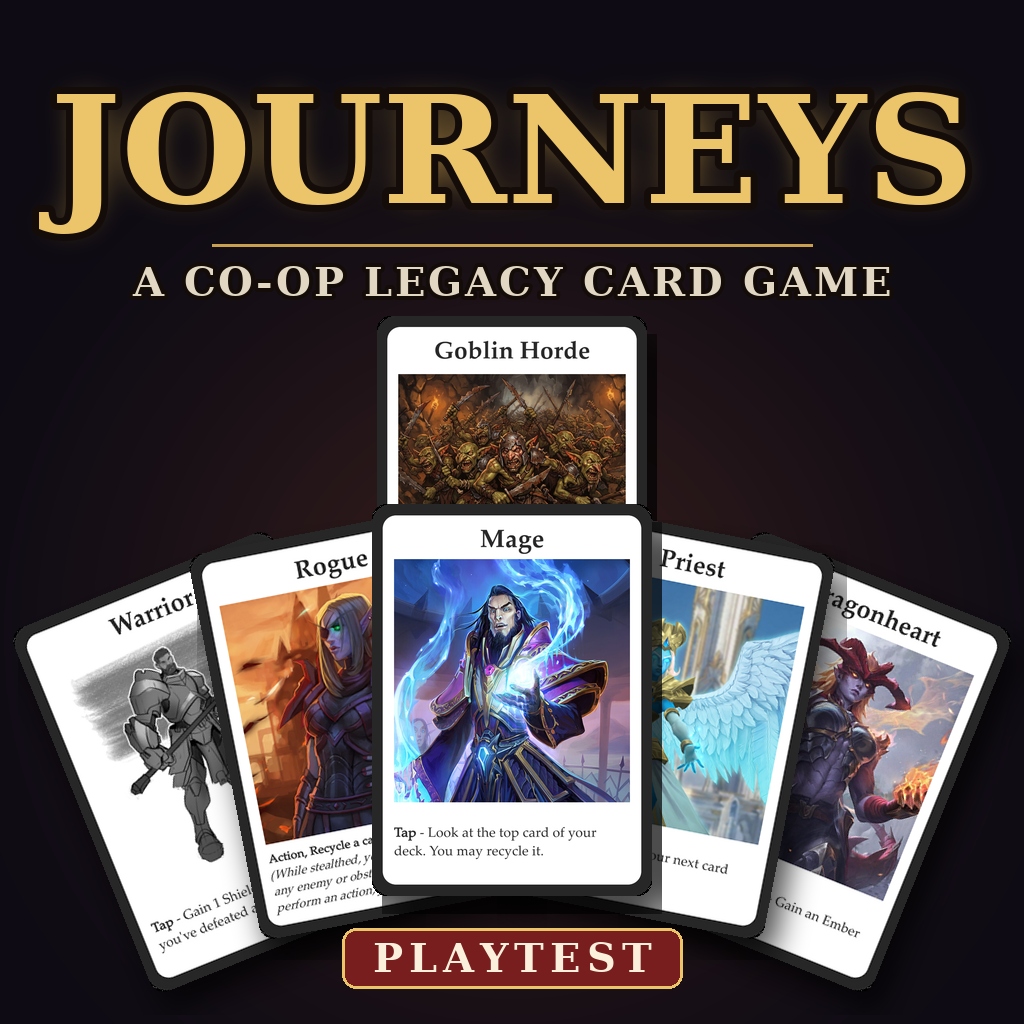
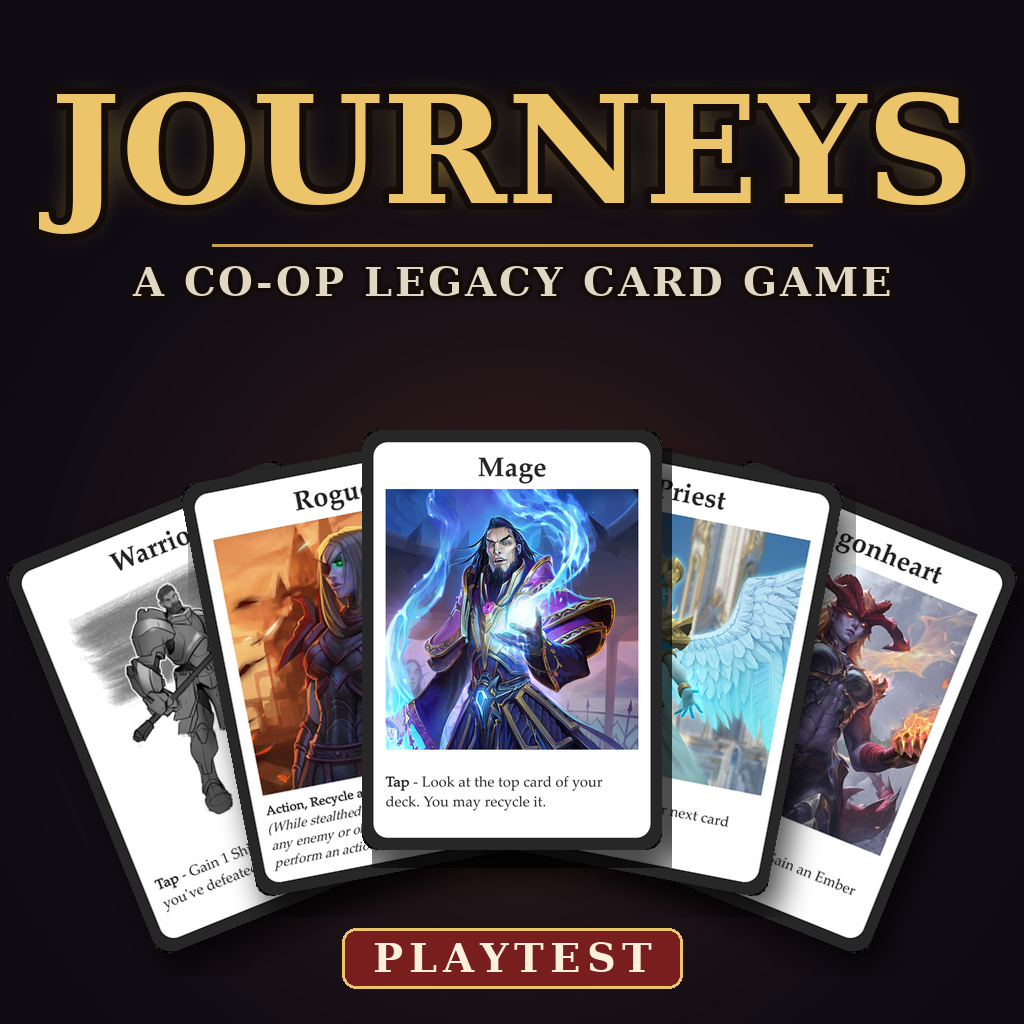
Thumbnail: drop the Goblin Horde card, enlarge the hero fan
Claude-Session: https://claude.ai/code/session_017UbufNvHCyxLXVyiB6LHid

diff --git a/tts/build/thumbnail.py b/tts/build/thumbnail.py
@@ -25,16 +25,15 @@ def place(c, cx, cy, ang):
     im.alpha_composite(sh, (int(cx - r.width / 2 + 10), int(cy - r.height / 2 + 18)))
     im.alpha_composite(r, (int(cx - r.width / 2), int(cy - r.height / 2)))
 
-# goblin horde lurking behind, then the five heroes fanned out
-place(card("encounters/Trouble with Goblins/Goblin Horde x4.png", 270), S/2, 505, 0)
+# the five heroes fanned out
 heroes = ["Warrior x1.png", "Rogue x1.png", "Mage x1.png", "Priest x1.png", "Dragonheart x1.png"]
 order = [0, 4, 1, 3, 2]                     # draw outer cards first so the middle one sits on top
 for i in order:
     k = i - 2
     ang = -k * 11
-    cx = S/2 + k * 150
-    cy = 700 + abs(k) ** 1.5 * 22
-    place(card("character cards/" + heroes[i], 280), cx, cy, ang)
+    cx = S/2 + k * 146
+    cy = 640 + abs(k) ** 1.5 * 24
+    place(card("character cards/" + heroes[i], 300), cx, cy, ang)
 
 d = ImageDraw.Draw(im)
 def text(y, s, size, fill, stroke=6, spacing=0):
